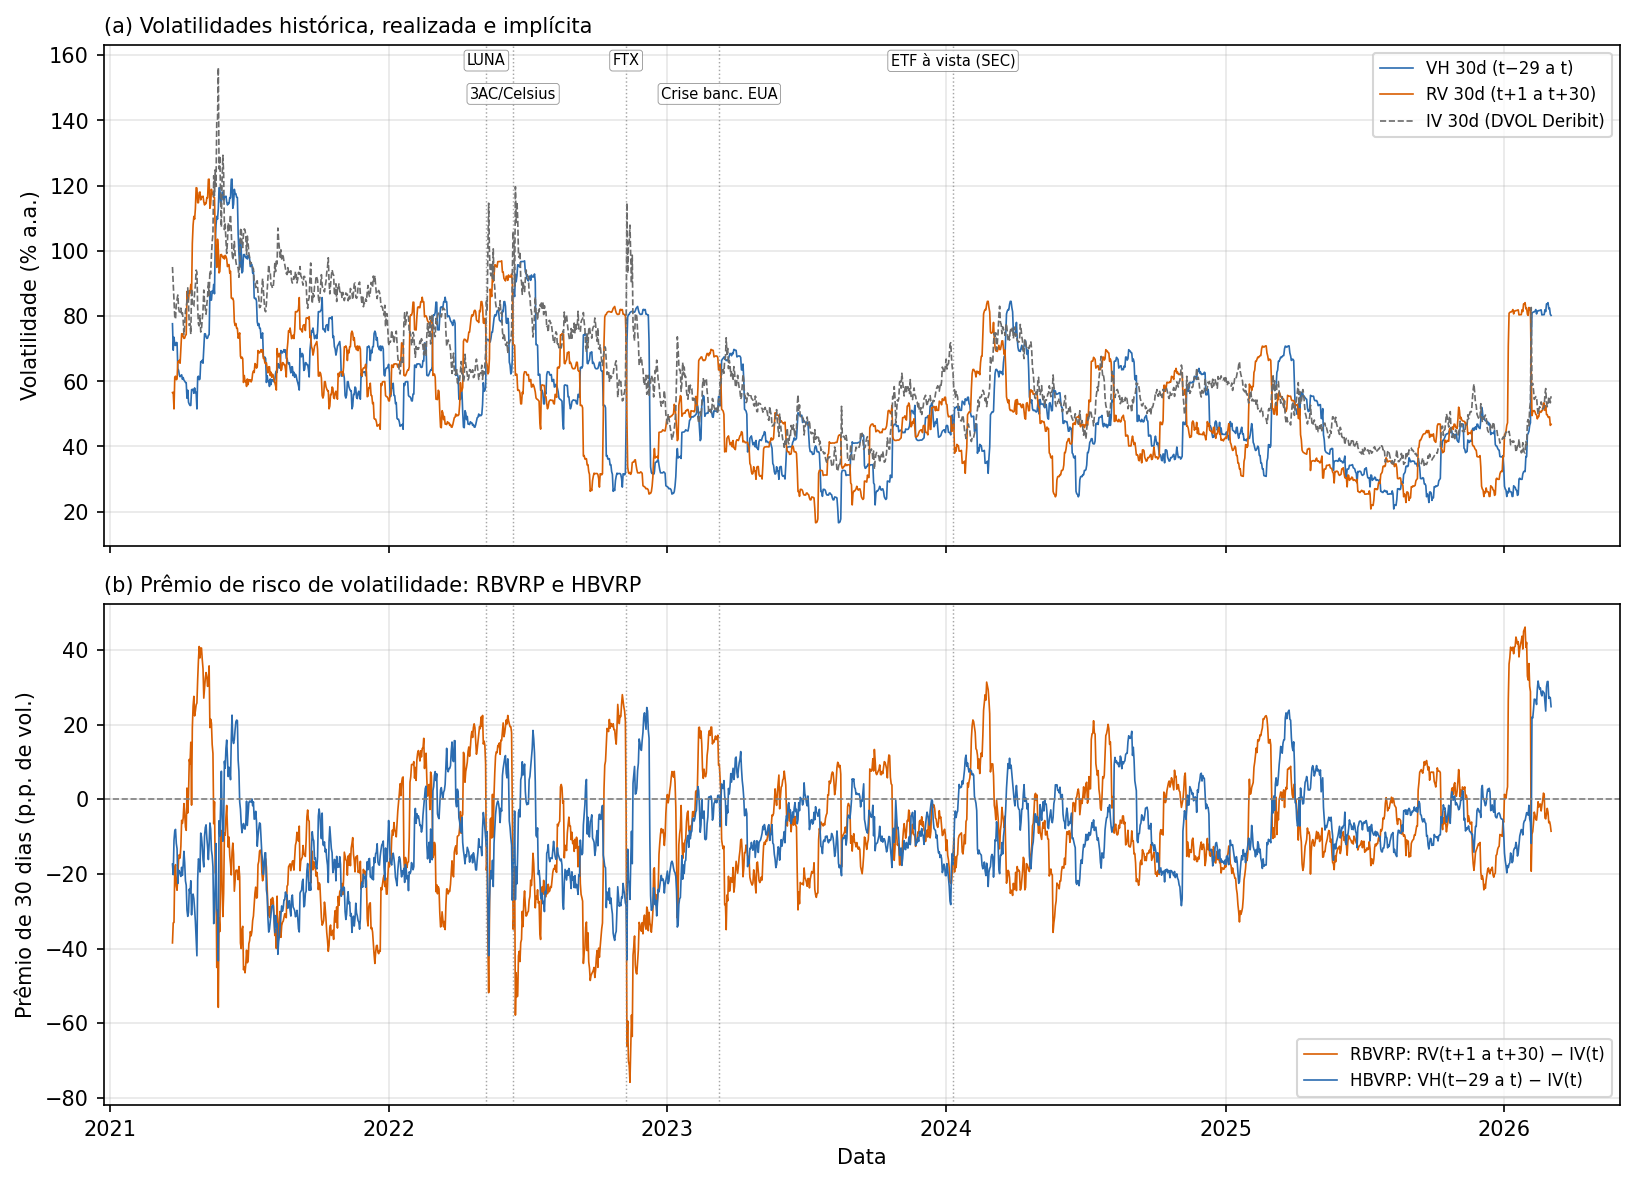
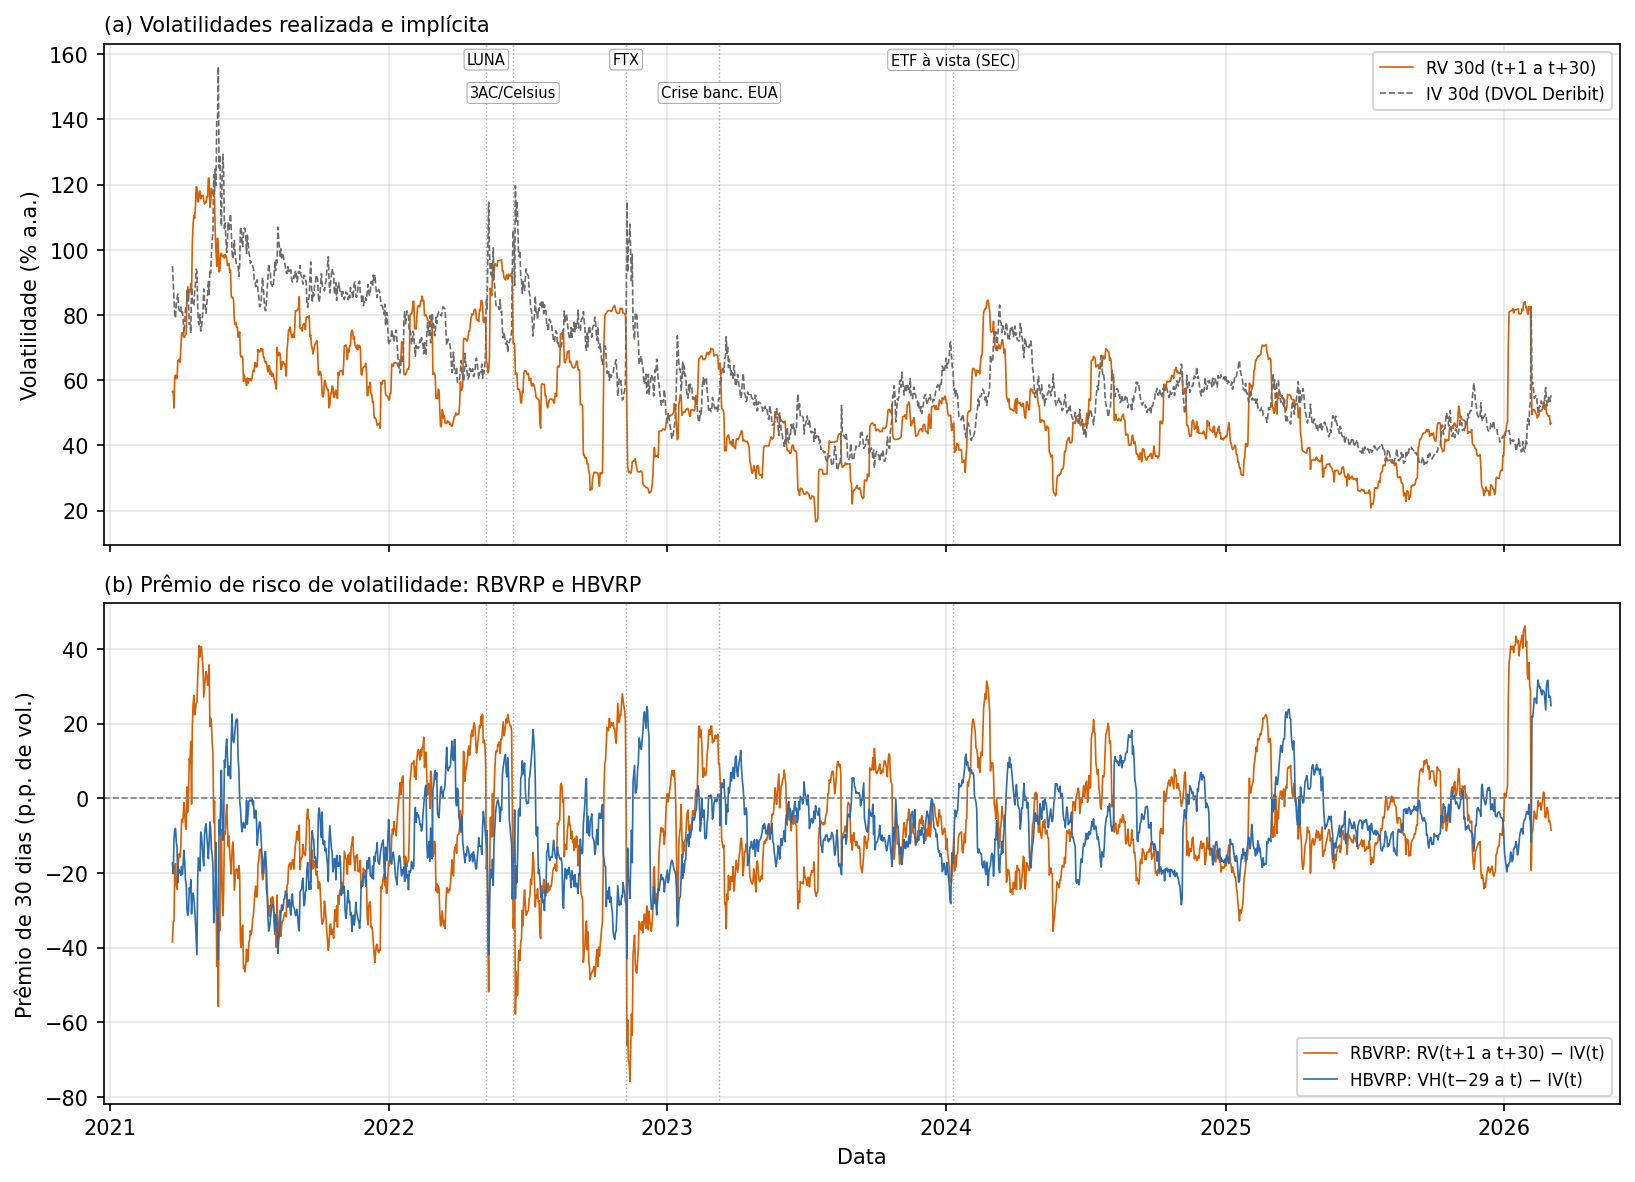
Lote 4, #39 e previsão média (#136)

diff --git a/chapters/dados.tex b/chapters/dados.tex
@@ -113,16 +113,15 @@ dinâmica da volatilidade e do prêmio de risco ao longo do tempo, bem como
 identificar episódios de persistência e mudanças de comportamento associados a
 eventos relevantes do mercado de criptoativos. A
 Figura~\ref{fig:dados-series} apresenta, em dois painéis com eixo temporal
-compartilhado, a evolução das volatilidades histórica (retrospectiva) e
-realizada (prospectiva) de 30 dias e da volatilidade implícita (painel
-superior) e das duas estimativas do prêmio de risco de volatilidade do Bitcoin
+compartilhado, a evolução da volatilidade realizada nos 30 dias seguintes e
+da volatilidade implícita (painel superior) e das duas estimativas do prêmio de risco de volatilidade do Bitcoin
 (painel inferior), com anotações dos principais eventos de mercado do período.
 
 \IfFileExists{figs/dados/vrp_timeseries.png}{
 \begin{figure}[H]
     \centering
     \includegraphics[width=0.9\linewidth]{figs/dados/vrp_timeseries.png}
-    \caption[Evolução da volatilidade e do prêmio de risco de volatilidade]{Evolução temporal das séries de volatilidade do Bitcoin. Painel (a): volatilidade histórica ($\text{VH}_{t-29:t}$) e realizada ($\text{RV}_{t+1:t+30}$) de 30 dias e volatilidade implícita (IV, índice DVOL da Deribit). Só a volatilidade realizada cobre a mesma janela que a IV de $t$; a histórica é a do HBVRP, conhecida em $t$, e sua comparação com a IV mistura janelas diferentes. Painel (b): RBVRP ($\text{RV}_{t+1:t+30} - \text{IV}_t$) e HBVRP ($\text{VH}_{t-29:t} - \text{IV}_t$). Anotações verticais: colapso do TerraUSD/LUNA (maio/2022), liquidação da Three Arrows Capital e suspensão de saques na Celsius (junho/2022), falência da FTX (novembro/2022), crise bancária dos Estados Unidos --- SVB e Signature (março/2023), e aprovação dos ETFs de Bitcoin à vista pela SEC (janeiro/2024).}
+    \caption[Evolução da volatilidade e do prêmio de risco de volatilidade]{Evolução temporal das séries de volatilidade do Bitcoin. Painel (a): volatilidade realizada de 30 dias ($\text{RV}_{t+1:t+30}$), que cobre a mesma janela que a IV de $t$, e volatilidade implícita (IV, índice DVOL da Deribit). Painel (b): RBVRP ($\text{RV}_{t+1:t+30} - \text{IV}_t$) e HBVRP ($\text{VH}_{t-29:t} - \text{IV}_t$). Anotações verticais: colapso do TerraUSD/LUNA (maio/2022), liquidação da Three Arrows Capital e suspensão de saques na Celsius (junho/2022), falência da FTX (novembro/2022), crise bancária dos Estados Unidos --- SVB e Signature (março/2023), e aprovação dos ETFs de Bitcoin à vista pela SEC (janeiro/2024).}
     \label{fig:dados-series}
 \end{figure}
 }{}

diff --git a/tables/previsao_bvrp/tab_resultados.tex b/tables/previsao_bvrp/tab_resultados.tex
@@ -17,8 +17,11 @@ Ridge & 0{,}223 & 0{,}095 & $<$0{,}001 & 0{,}002 & 1{,}000$^{\dagger}$ & 1{,}000
 LASSO & 0{,}123 & 0{,}039 & 0{,}016 & 0{,}061 & 0{,}707$^{\dagger}$ & 0{,}647$^{\dagger}$ & 0{,}088 \\
 Floresta aleatória & 0{,}143 & 0{,}073 & $<$0{,}001 & 0{,}008 & 0{,}707$^{\dagger}$ & 0{,}687$^{\dagger}$ & 0{,}194 \\
 XGBoost & 0{,}100 & 0{,}066 & 0{,}003 & 0{,}009 & 0{,}652$^{\dagger}$ & 0{,}647$^{\dagger}$ & 0{,}156 \\
+\addlinespace
+Média (Ridge, floresta) & 0{,}196 & 0{,}098 & $<$0{,}001 & 0{,}003 & -- & -- & -- \\
+Média (5 métodos) & 0{,}186 & 0{,}092 & $<$0{,}001 & 0{,}004 & -- & -- & -- \\
 \bottomrule
 \end{tabular}
 \par\smallskip
-\parbox{0.95\linewidth}{\footnotesize\textit{Nota}: $\text{HBVRP}_t = \text{VH}_{t-29:t} - \text{IV}_t$; $\text{RBVRP}_{t-30}$: prêmio realizado defasado. 987 previsões, de 21/06/2023 a 03/03/2026. $R^2_{\text{fora}}$: contra a média histórica dos alvos conhecidos em cada origem ($s \le t - 30$). Clark--West: unilateral, contra a média histórica, com erro-padrão HAC de $h + 1 = 31$ defasagens. MCS: valor-$p$ do \textit{model confidence set} de \citet{hansen2011model}, com perda quadrática, estatística $T_{\max}$ e bootstrap em blocos móveis de 60 dias (9.999 reamostragens), sobre os oito modelos de cada janela; $^{\dagger}$: no conjunto a 10\%. $R^2$ dentro da amostra: média das 33 reestimações.}
+\parbox{0.95\linewidth}{\footnotesize\textit{Nota}: $\text{HBVRP}_t = \text{VH}_{t-29:t} - \text{IV}_t$; $\text{RBVRP}_{t-30}$: prêmio realizado defasado. 987 previsões, de 21/06/2023 a 03/03/2026. $R^2_{\text{fora}}$: contra a média histórica dos alvos conhecidos em cada origem ($s \le t - 30$). Clark--West: unilateral, contra a média histórica, com erro-padrão HAC de $h + 1 = 31$ defasagens. MCS: valor-$p$ do \textit{model confidence set} de \citet{hansen2011model}, com perda quadrática, estatística $T_{\max}$ e bootstrap em blocos móveis de 60 dias (9.999 reamostragens), sobre os oito modelos de cada janela; $^{\dagger}$: no conjunto a 10\%. $R^2$ dentro da amostra: média das 33 reestimações. Médias: média simples das previsões do Ridge e da floresta aleatória e dos cinco métodos (MQO, Ridge, LASSO, floresta aleatória e XGBoost), sem reestimação; as médias não entram no conjunto do MCS, que segue com os oito modelos originais (--).}
 \end{table}

diff --git a/chapters/referencial.tex b/chapters/referencial.tex
@@ -18,9 +18,10 @@ A volatilidade implícita (IV) representa a
 expectativa de mercado, no mundo neutro ao risco, sobre a variabilidade futura
 do preço do ativo subjacente. O índice DVOL da Deribit, como o VIX, é a raiz da
 variância esperada no mundo neutro ao risco:
-\[
+\begin{equation}
 \text{IV}_t^2 = \mathbb{E}^*(\text{RV}^2_{t+1:t+h} \mid I_t),
-\]
+\label{eq:refer-iv2}
+\end{equation}
 em que $\text{RV}^2_{t+1:t+h}$ é a variância realizada entre $t+1$ e $t+h$
 (Seção~\ref{sec:refer-rv}), o asterisco denota a expectativa no mundo neutro ao
 risco e $I_t$, a informação disponível em $t$. Nesta dissertação,
@@ -99,17 +100,17 @@ O prêmio de risco de volatilidade (VRP) pode ser interpretado como a
 compensação exigida pelos investidores para assumir risco de volatilidade.
 Formalmente, um prêmio de risco é a diferença entre a expectativa no mundo
 físico e a expectativa no mundo neutro ao risco. Em volatilidade, o lado
-neutro ao risco é a volatilidade implícita, e, para um horizonte de $h$ dias,
+neutro ao risco é a volatilidade implícita, a raiz da variância implícita da
+equação~\eqref{eq:refer-iv2}, e, para um horizonte de $h$ dias, o prêmio,
+medido em volatilidade, é
 
 \begin{equation}
 \text{VRP}_t = \mathbb{E}(\text{RV}_{t+1:t+h} \mid I_t) - \text{IV}_t,
 \label{eq:refer-vrp-def}
 \end{equation}
-em que $\mathbb{E}$ denota a expectativa no mundo físico. Como a IV é a raiz da
-variância esperada no mundo neutro ao risco, e não a volatilidade esperada, o
-prêmio medido em volatilidade inclui também a diferença, dada pela
-desigualdade de Jensen, entre a raiz da variância esperada e a volatilidade
-esperada.
+em que $\mathbb{E}$ denota a expectativa no mundo físico. A diferença entre a
+raiz da variância esperada e a volatilidade esperada é de segunda ordem e não
+é tratada aqui.
 
 O BVRP é o prêmio de risco de volatilidade do Bitcoin, com $h = 30$ dias e a
 IV dada pelo índice DVOL da Deribit:

diff --git a/outputs/T1/tab_3_1_desc_stats.tex b/outputs/T1/tab_3_1_desc_stats.tex
@@ -20,5 +20,5 @@ Log-retorno diário & 0,0001 & 0,0296 & $-$0,1670 & $-$0,0472 & $-$0,0132 & 0,01
 \bottomrule
 \end{tabular}}
 \par\smallskip
-\parbox{0.95\linewidth}{\footnotesize\textit{Nota}: RV 30d (volatilidade realizada) e VH 30d (volatilidade histórica) calculadas como raiz da média dos log-retornos diários quadráticos, anualizada ($\times\sqrt{365}$): a RV sobre os retornos de $t+1$ a $t+30$; a VH sobre os retornos de $t-29$ a $t$. IV 30d: índice DVOL da Deribit, observado em $t$. RBVRP: $\text{RV}_{t+1:t+30} - \text{IV}_t$; HBVRP: $\text{VH}_{t-29:t} - \text{IV}_t$.}
+\parbox{0.95\linewidth}{\footnotesize\textit{Nota}: Média: média aritmética; D.P.: desvio-padrão amostral; Mín. e Máx.: menor e maior valor; p5, p25, p75 e p95: percentis de 5\%, 25\%, 75\% e 95\%; Assim.: coeficiente de assimetria; Curtose: excesso de curtose. RV 30d (volatilidade realizada) e VH 30d (volatilidade histórica) calculadas como raiz da média dos log-retornos diários quadráticos, anualizada ($\times\sqrt{365}$): a RV sobre os retornos de $t+1$ a $t+30$; a VH sobre os retornos de $t-29$ a $t$. IV 30d: índice DVOL da Deribit, observado em $t$. RBVRP: $\text{RV}_{t+1:t+30} - \text{IV}_t$; HBVRP: $\text{VH}_{t-29:t} - \text{IV}_t$.}
 \end{table}

diff --git a/tables/dados/desc_stats.tex b/tables/dados/desc_stats.tex
@@ -20,5 +20,5 @@ Log-retorno diário & 0,0001 & 0,0296 & $-$0,1670 & $-$0,0472 & $-$0,0132 & 0,01
 \bottomrule
 \end{tabular}}
 \par\smallskip
-\parbox{0.95\linewidth}{\footnotesize\textit{Nota}: RV 30d (volatilidade realizada) e VH 30d (volatilidade histórica) calculadas como raiz da média dos log-retornos diários quadráticos, anualizada ($\times\sqrt{365}$): a RV sobre os retornos de $t+1$ a $t+30$; a VH sobre os retornos de $t-29$ a $t$. IV 30d: índice DVOL da Deribit, observado em $t$. RBVRP: $\text{RV}_{t+1:t+30} - \text{IV}_t$; HBVRP: $\text{VH}_{t-29:t} - \text{IV}_t$.}
+\parbox{0.95\linewidth}{\footnotesize\textit{Nota}: Média: média aritmética; D.P.: desvio-padrão amostral; Mín. e Máx.: menor e maior valor; p5, p25, p75 e p95: percentis de 5\%, 25\%, 75\% e 95\%; Assim.: coeficiente de assimetria; Curtose: excesso de curtose. RV 30d (volatilidade realizada) e VH 30d (volatilidade histórica) calculadas como raiz da média dos log-retornos diários quadráticos, anualizada ($\times\sqrt{365}$): a RV sobre os retornos de $t+1$ a $t+30$; a VH sobre os retornos de $t-29$ a $t$. IV 30d: índice DVOL da Deribit, observado em $t$. RBVRP: $\text{RV}_{t+1:t+30} - \text{IV}_t$; HBVRP: $\text{VH}_{t-29:t} - \text{IV}_t$.}
 \end{table}

diff --git a/code/plot_cap3_T1.py b/code/plot_cap3_T1.py
@@ -49,15 +49,13 @@ EVENTOS = [
 def fig_serie(df, out):
     fig, axes = plt.subplots(2, 1, figsize=(11, 8), sharex=True)
 
-    ax = axes[0]
-    ax.plot(df["date"], df["rv_30d"], color=COR_RETRO, linewidth=0.8,
-            label="VH 30d (t−29 a t)")
+    ax = axes[0]   # sem a VH retrospectiva (#79): só a RV cobre a mesma janela que a IV de t
     ax.plot(df["date"], df["rv_30d_fut"], color=COR_PROSP, linewidth=0.8,
             label="RV 30d (t+1 a t+30)")
     ax.plot(df["date"], df["iv_30d"], color=COR_IV, linewidth=0.8, linestyle="--",
             label="IV 30d (DVOL Deribit)")
     ax.set_ylabel("Volatilidade (% a.a.)")
-    ax.set_title("(a) Volatilidades histórica, realizada e implícita",
+    ax.set_title("(a) Volatilidades realizada e implícita",
                  loc="left", fontsize=10)
     ax.legend(loc="upper right", fontsize=8)
     ax.grid(True, alpha=0.3)

diff --git a/tables/previsao_bvrp/tab_dicionario.tex b/tables/previsao_bvrp/tab_dicionario.tex
@@ -25,7 +25,7 @@ $\text{IV}_t - \overline{\text{IV}}_{t-29:t}$ & desvio da média móvel de 30 di
 $r_t$ & $\ln(P_t/P_{t-1})$ & \texttt{ret\_1d} & $<$0{,}001 & log-diferença do preço \\
 $r_{t-4:t}$ & $\sum_{j=0}^{4} r_{t-j}$ & \texttt{ret\_acum\_5d} & $<$0{,}001 & soma de log-diferenças \\
 $r_{t-29:t}$ & $\sum_{j=0}^{29} r_{t-j}$ & \texttt{ret\_acum\_30d} & $<$0{,}001 & soma de log-diferenças \\
-$\ln(P_t/\overline{P}_{t-29:t})$ & preço relativo à média móvel de 30 dias & \texttt{log\_close\_ma30d} & $<$0{,}001 & razão com a média móvel \\
+$\ln(P_t/\overline{P}_{t-29:t})$ & log do preço relativo à média móvel de 30 dias & \texttt{log\_close\_ma30d} & $<$0{,}001 & log da razão com a média móvel \\
 \addlinespace
 \multicolumn{5}{l}{\textit{Prêmio}} \\
 $\text{HBVRP}_t$ & $\text{VH}_{t-29:t} - \text{IV}_t$ & \texttt{vrp\_30d} & $<$0{,}001 & nível \\

diff --git a/code/build_desc_stats_T1.py b/code/build_desc_stats_T1.py
@@ -193,7 +193,9 @@ def tab_3_1(df, out_dir, bvrp_cols):
         r"\bottomrule",
         r"\end{tabular}}",
         r"\par\smallskip",
-        r"\parbox{0.95\linewidth}{\footnotesize\textit{Nota}: RV 30d (volatilidade realizada) e VH 30d"
+        r"\parbox{0.95\linewidth}{\footnotesize\textit{Nota}: Média: média aritmética; D.P.: desvio-padrão"
+        r" amostral; Mín. e Máx.: menor e maior valor; p5, p25, p75 e p95: percentis de 5\%, 25\%, 75\% e"
+        r" 95\%; Assim.: coeficiente de assimetria; Curtose: excesso de curtose. RV 30d (volatilidade realizada) e VH 30d"
         r" (volatilidade histórica) calculadas como raiz da média"
         r" dos log-retornos diários quadráticos, anualizada ($\times\sqrt{365}$): a RV sobre os"
         r" retornos de $t+1$ a $t+30$; a VH sobre os retornos de $t-29$ a $t$."
